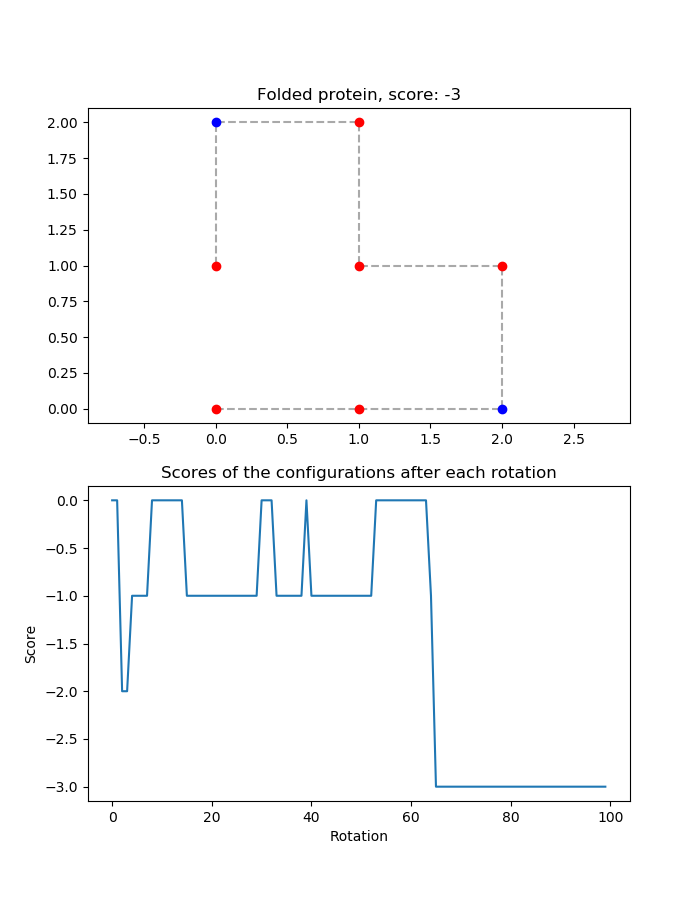
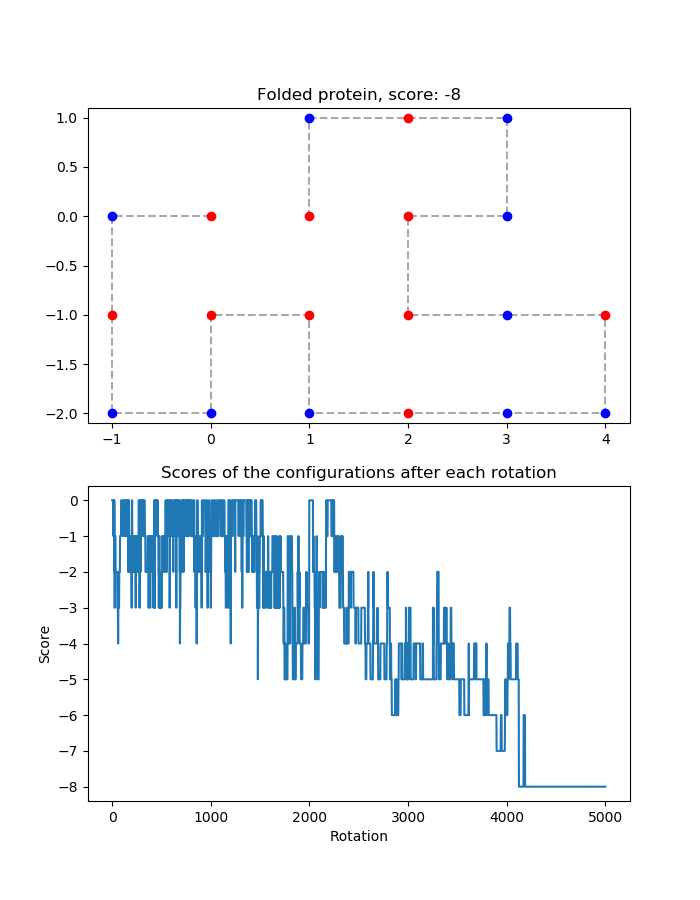
looped main added

diff --git a/looped_main.py b/looped_main.py
@@ -30,47 +30,39 @@ from classes.protein import Protein
 import sys
 
 def main():
+
     # available algorithms
     algos = {'BFBAB':BF, 'BFBAB3D':BF3D, 'DEE':DEE, 'FF':FF, 'HC':HC, \
             'HC3D':HC3D, 'MONTE':MONTE, 'MONTE3D':M3D, 'SIMANN':SA, \
             'SIMANN3D':SA3D,'SIMANN+':SAPLUS, 'SIMANN3D+':SAPLUS3D, \
             'TREE':TREE, 'GENETIC':GENETIC} 
 
-    print("Available algorithms:")
-    for key in algos:
-        print(f"{key} - ", end =" ")
-
-    # get algorithm for folding
-    algo = input("\n" + "Enter algorithm to run: ")
+    proteins = ['HHPHHHPH','HHPHHHPHPHHHPH','HPHPPHHPHPPHPHHPPHPH','PPPHHPPHHPPPPPHHHHHHHPPHHPPPPHHPPHPP','HHPHPHPHPHHHHPHPPPHPPPHPPPPHPPPHPPPHPHHHHPHPHPHPHH','PPCHHPPCHPPPPCHHHHCHHPPHHPPPPHHPPHPP','CPPCHPPCHPPCPPHHHHHHCCPCHPPCPCHPPHPC','HCPHPCPHPCHCHPHPPPHPPPHPPPPHPCPHPPPHPHHHCCHCHCHCHH','HCPHPHPHCHHHHPCCPPHPPPHPPPPCPPPHPPPHPHHHHCHPHPHPHH']
     
-    # read available proteins from text file
-    proteins = {}
-    filename = "proteins.txt"
+    r = open('BFBAB_results', 'w')
 
-    with open(filename, "r") as file:
-        lines = file.readlines()
+    for line in proteins:
+        line.strip("\n")
+        time_list = []
+        score_list = []
+        conform_list = []
 
-        print("Available proteins: ")
-        # save protein string in a dictionary to choose from
-        for i in range(len(lines)):
-            protein = lines[i].strip("\n")             
-            proteins[i] = protein
-            print(f"ID: {i}, Protein: {protein}")
-    
-    # get protein to fold
-    choose_protein = input("\n" + "Which protein would you like to fold? Enter ID: ")
- 
-    # protein information
-    fold_protein = proteins[int(choose_protein)]
-    length = len(fold_protein)
-    proti = Protein(fold_protein, length)
-
-    # check if algorithm name exists
-    if algo not in algos:
-        sys.exit("Algorithm not found. Please try again")
-
-    # run choosen algorithm
-    algos[algo].run(proti)
+        fold_protein = line
+        length = len(fold_protein)
+        proti = Protein(fold_protein, length)
+        print(f'line: {line}')
+        algo = 'BFBAB'
+        for i in range(30):
+            # run choosen algorithm
+            try:
+                time, score, conform = algos[algo].run(proti)
+            except:
+                time, score, conform = 0, 0, 'not found'
+            time_list.append(time)
+            score_list.append(score)
+            conform_list.append(conform)
+        
+        r.write(f'sequence = {line}\ntime = {time_list}\nscore = {score_list}\nconform = {conform_list}\n')
 
 
 if __name__ == "__main__":

diff --git a/algorithms/BFBAB.py b/algorithms/BFBAB.py
@@ -136,5 +136,7 @@ def run(proti):
     print(f'Score: {lowest_score}')
     print(f'Total runtime: {total_time}')
     print(f'Configuration: {best_config}')
-    plot(best_config, lowest_score, total_time, proti)
+    # plot(best_config, lowest_score, total_time, proti)
+
+    return total_time, lowest_score, best_config
 

diff --git a/algorithms/MONTE3D.py b/algorithms/MONTE3D.py
@@ -21,7 +21,7 @@ def run(proti):
     pos_z = [0] * proti.length
 
     # number of iterations, higher N is better result
-    N = 100000
+    N = 1000
     rotation_counter = 0
 
     # lists to keep track of the scores and best configuration 

diff --git a/algorithms/MONTE.py b/algorithms/MONTE.py
@@ -27,7 +27,7 @@ def run(proti):
     pos_y = [0] * proti.length
 
     rotation_counter = 0
-    N = 100
+    N = 5000
 
     # initialize progress bar
     bar = Bar('Progress', max=N/1000)

diff --git a/algorithms/HC3D.py b/algorithms/HC3D.py
@@ -15,8 +15,6 @@ import copy
 import timeit
 from progress.bar import Bar
 
-
-
 def run(proti):
     # start timing the run of the code
     start = timeit.default_timer()
